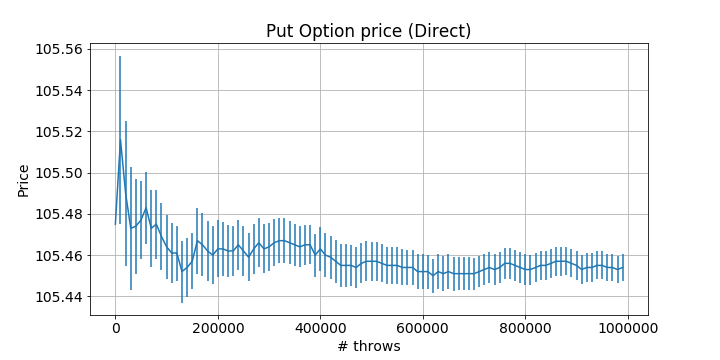
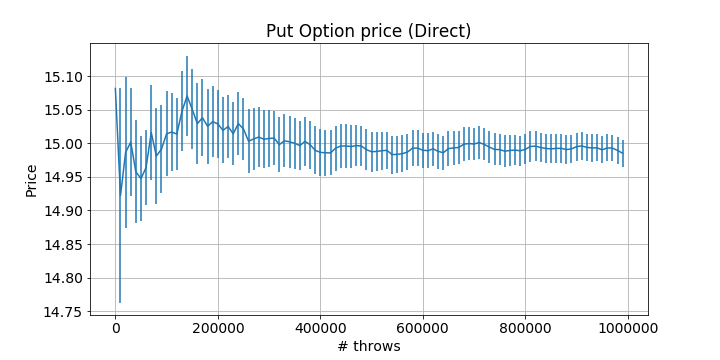
Call and Put pricing Plotted

diff --git a/esercizio_3/rng/main.cpp b/esercizio_3/rng/main.cpp
@@ -57,12 +57,12 @@ int main (int argc, char *argv[]){
 
    // Params
 
-   float S = 100;
-   float S_t;
-   float T = 1;
-   float K = 100;
-   float r = 0.1; // mu = r
-   float sigma = 0.25;
+   double S = 100;
+   double S_t;
+   double T = 1;
+   double K = 100;
+   double r = 0.1; // mu = r
+   double sigma = 0.25;
 
    // Black-Scholes Solution to Option Pricing
 
@@ -77,8 +77,10 @@ int main (int argc, char *argv[]){
 
    double diff;
 
-   vector<double> ave(N,0);
-   vector<double> av2(N,0);
+   vector<double> call_ave(N,0);
+   vector<double> call_av2(N,0);
+   vector<double> put_ave(N,0);
+   vector<double> put_av2(N,0);
 
    for (int i = 0; i < N; i++){
       S_t = 100;
@@ -86,17 +88,26 @@ int main (int argc, char *argv[]){
          S_t = GBM(S,T,r,sigma,rnd);
 
          diff = S_t-K;
-         ave[i] += exp(-r*T)*max(0.,diff); // Call Price
+         call_ave[i] += exp(-r*T)*max(0., diff); // Call Price
+
+         diff = K-S_t;
+         put_ave[i] += exp(-r*T)*max(0., diff); // Put Price
       }
 
-      ave[i] /= M; // average price
-      av2[i] = ave[i]*ave[i];
+      call_ave[i] /= M;
+      call_av2[i] = call_ave[i]*call_ave[i];
+
+      put_ave[i] /= M;
+      put_av2[i] = put_ave[i]*put_ave[i];
    }
 
    // Cumulative blocked statistics
 
-   string datafile = "../data/stats_3.1.1.dat";
-   blocked_stats(ave, av2, N, datafile);
+   string datafile = "../data/stats_3.1.1_call.dat";
+   blocked_stats(call_ave, call_av2, N, datafile);
+
+   datafile = "../data/stats_3.1.1_put.dat";
+   blocked_stats(put_ave, put_av2, N, datafile);
 
    // 3.1.2 - Path Sampling of GBM
 
@@ -104,25 +115,39 @@ int main (int argc, char *argv[]){
    int timesteps = 100;
    float t = T / timesteps;
 
-   fill(ave.begin(), ave.end(), 0);
-   fill(av2.begin(), av2.end(), 0);
+   fill(call_ave.begin(), call_ave.end(), 0);
+   fill(call_av2.begin(), call_av2.end(), 0);
+   fill(put_ave.begin(), put_ave.end(), 0);
+   fill(put_av2.begin(), put_av2.end(), 0);
 
-   for (int i = 0; i < N; i++){
+   for (int i = 0; i < N; i++){ // Blocks
 
-      for (int j = 0; j < M; j++){
+      for (int j = 0; j < M; j++){ // M samples
+
          S_t = 100;
-         for (int k = 0; k < timesteps; k++){   
-            S_t = GBM(S_t,t,r,sigma,rnd);
+         for (int k = 0; k < timesteps; k++){ // Path simulation
+            S_t = GBM(S_t, t, r, sigma, rnd);
          }
+
          diff = S_t-K;
-         ave[i] += exp(-r*T)*max(0., diff); // Call Price
+         call_ave[i] += exp(-r*T)*max(0., diff); // Call Price
+
+         diff = K-S_t;
+         put_ave[i] += exp(-r*T)*max(0., diff); // Put Price
+
       }
-      ave[i] /= M;
-      av2[i] = ave[i]*ave[i];
+      call_ave[i] /= M;
+      call_av2[i] = call_ave[i]*call_ave[i];
+
+      put_ave[i] /= M;
+      put_av2[i] = put_ave[i]*put_ave[i];
    }
 
-   datafile = "../data/stats_3.1.2.dat";
-   blocked_stats(ave, av2, N, datafile);
+   datafile = "../data/stats_3.1.2_call.dat";
+   blocked_stats(call_ave, call_av2, N, datafile);
+
+   datafile = "../data/stats_3.1.2_put.dat";
+   blocked_stats(put_ave, put_av2, N, datafile);
 
    rnd.SaveSeed();
    return 0;

diff --git a/esercizio_3/rng/GeometricBrownianMotion.cpp b/esercizio_3/rng/GeometricBrownianMotion.cpp
@@ -6,25 +6,25 @@
 #include "random.h"
 
 
-float GBM(float S, float T, float mu, float sigma , Random & rnd){
+double GBM(double S, double T, double mu, double sigma , Random & rnd){
 	return S*exp( (mu-0.5 * sigma*sigma)*T + sigma*rnd.Gauss(0,1)*sqrt(T));
 }
 
 // Black-Scholes:
 
-float N(float x){
+double N(double x){
 	return 0.5 * (1 + erf( x/sqrt(2) ) );
 }
 
-float call_option(float S, float T, float K, float sigma, float r){
+double call_option(double S, double T, double K, double sigma, double r){
 
-	float d1 = ( log(S/K) + (r + 0.5*sigma*sigma*T) ) / (sigma*sqrt(T));
-	float d2 = d1 - sigma*sqrt(T);
+	double d1 = ( log(S/K) + (r + 0.5*sigma*sigma*T) ) / (sigma*sqrt(T));
+	double d2 = d1 - sigma*sqrt(T);
 	return S*N(d1) - K*exp(-r*T)*N(d2);
 }
 
-float put_option(float S, float T, float K, float sigma, float r){
-	float d1 = ( log(S/K) + (r + 0.5*sigma*sigma*T) ) / (sigma*sqrt(T));
-	float d2 = d1 - sigma*sqrt(T);
+double put_option(double S, double T, double K, double sigma, double r){
+	double d1 = ( log(S/K) + (r + 0.5*sigma*sigma*T) ) / (sigma*sqrt(T));
+	double d2 = d1 - sigma*sqrt(T);
 	return S*(N(d1)-1) - K*exp(-r*T)*(N(d2)-1);
 }

diff --git a/esercizio_3/rng/GeometricBrownianMotion.h b/esercizio_3/rng/GeometricBrownianMotion.h
@@ -2,11 +2,11 @@
 #define __GeometricBrownianMotion__
 
 
-float GBM(float, float, float, float, Random &);
+double GBM(double, double, double, double, Random &);
 
 // Black-Scholes:
-float call_option(float, float, float, float, float);
-float put_option(float, float, float, float, float);
-float N(float);
+double call_option(double, double, double, double, double);
+double put_option(double, double, double, double, double);
+double N(double);
 
 #endif 

diff --git a/esercizio_3/rng/statistics.cpp b/esercizio_3/rng/statistics.cpp
@@ -7,7 +7,7 @@ using namespace std;
 
 #include "statistics.h"
 
-void blocked_stats(vector<double>  AV, vector<double>  AV2, int N, string filename){
+void blocked_stats(vector<double>  &AV, vector<double>  &AV2, int N, string filename){
    ofstream outfile;
    outfile.open(filename);
 

diff --git a/esercizio_3/rng/statistics.h b/esercizio_3/rng/statistics.h
@@ -3,7 +3,7 @@
 
 using namespace std;
 
-void blocked_stats(vector<double>, vector<double>, int, string);
+void blocked_stats(vector<double> &, vector<double> &, int, string);
 float error(vector<double>, vector<double>, int);
 
 #endif
